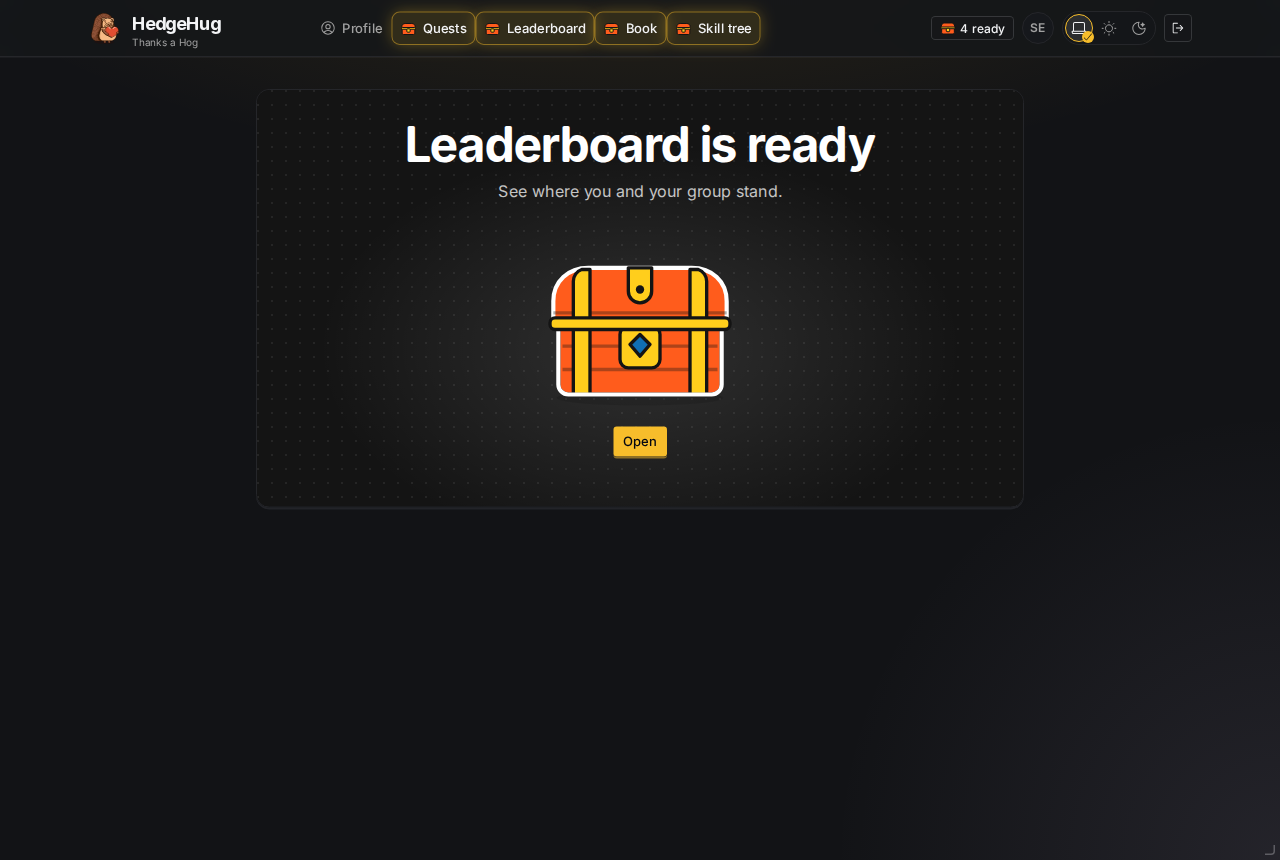
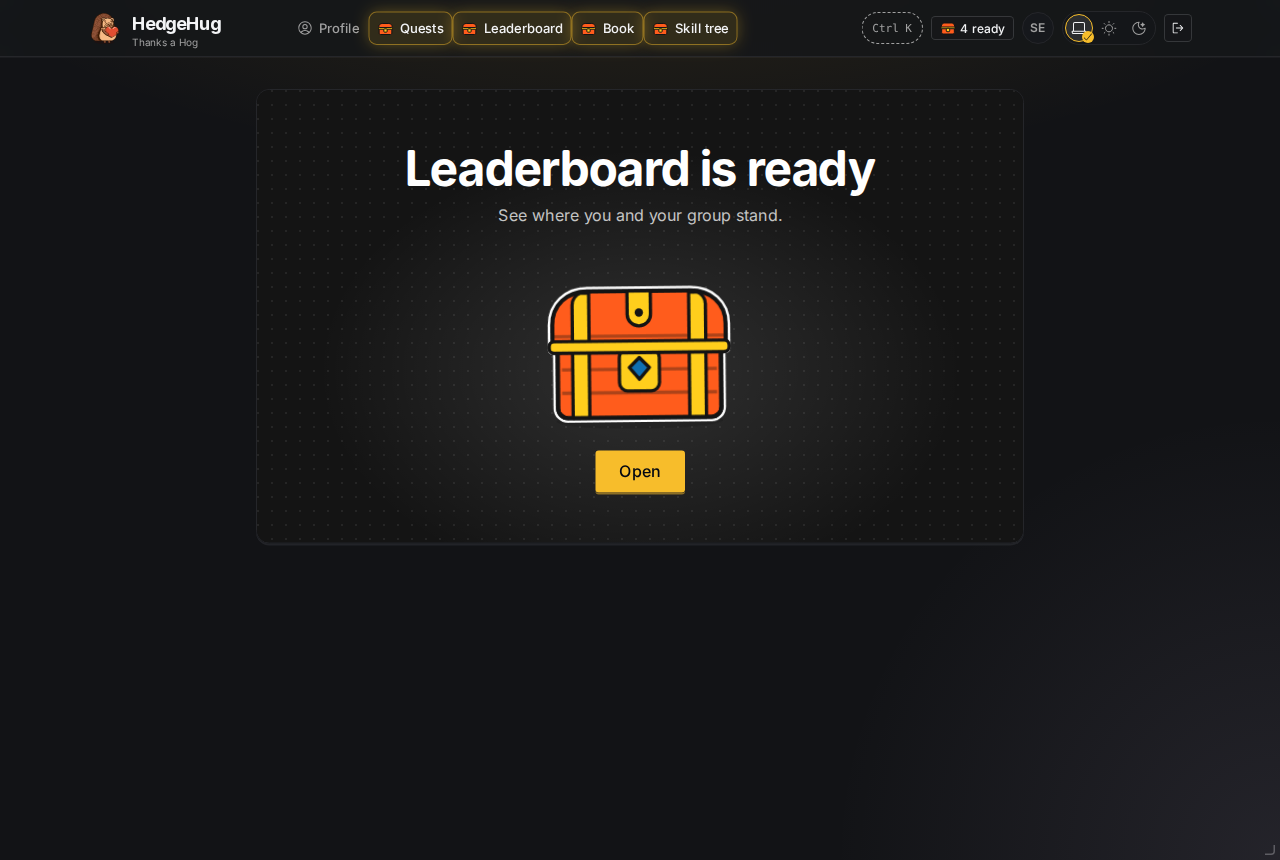
Refresh #276's proof after the spot check's fixes

Changed region(s): [[0.3125, 0.1512, 0.6875, 0.2721], [0.4062, 0.3023, 0.5938, 0.5744], [0.25, 0.0, 0.5938, 0.0605]]

diff --git a/website/proof/feature-gates/fixture/proof-fixture.tsx b/website/proof/feature-gates/fixture/proof-fixture.tsx
@@ -8,6 +8,7 @@ import { fixedQuests, questsFixtures } from "./src/questsFixtures";
 import { bookFixtures, fixedBook } from "./src/bookFixtures";
 import { fixedSkillTree, skillTreeFixtures } from "./src/skillTreeFixtures";
 import { fixtureProfileCardFor } from "./src/profileCardFixtures";
+import { fixtureRecentKudos } from "./src/recentKudosFixtures";
 
 const params = new URLSearchParams(location.search);
 history.replaceState(null, "", (params.get("path") ?? "/") + location.search);
@@ -29,5 +30,5 @@ const actions: ShellActions = {
   },
 };
 const show = () =>
-  root.render(<App visitor={visitor} actions={actions} useLeaderboard={board} useQuests={fixedQuests(questsFixtures[state])} useBook={fixedBook(bookFixtures[state])} useSkillTree={fixedSkillTree(skillTreeFixtures[state])} useProfileCard={fixtureProfileCardFor(visitor)} />);
+  root.render(<App visitor={visitor} actions={actions} useLeaderboard={board} useQuests={fixedQuests(questsFixtures[state])} useBook={fixedBook(bookFixtures[state])} useSkillTree={fixedSkillTree(skillTreeFixtures[state])} useProfileCard={fixtureProfileCardFor(visitor)} useRecentKudos={fixtureRecentKudos} />);
 show();

diff --git a/website/proof/feature-gates/README.md b/website/proof/feature-gates/README.md
@@ -14,8 +14,15 @@ The fixture build in `fixture/` (copy its three files into `website/`, run `pnpm
 | Shot | State |
 | --- | --- |
 | `1-locked-skill-tree-light.png`, `2-locked-skill-tree-dark.png` | `?state=locked&path=/skills`: the Skill tree's wizard in silhouette with the padlock, `Unlocks at level 5`, its sentence, `Back to your profile`. No climb, no levels to go (D3). |
-| `3-ready-leaderboard-light.png`, `4-ready-leaderboard-dark.png` | `?state=ready&path=/leaderboard`: the night band in both modes, `Leaderboard is ready`, the sentence, the crate with its light edge and the primary `Open`. |
-| `8-ready-book-390-dark.png` | The Book's ready band at 390 px. |
+| `3-ready-leaderboard-light.png`, `4-ready-leaderboard-dark.png` | `?state=ready&path=/leaderboard`: the night band in both modes, `Leaderboard is ready`, the sentence, the crate with E's ink outline inside a light rim, and the 44 px primary `Open` (the crate itself opens it too, from Fable 5.1's spot check). |
+| `8-ready-book-390-dark.png`, `9-locked-quests-390-light.png` | The Book's ready band and the locked Quests page at 390 px. |
 | `5-reveal-book-next-light.png`, `6-reveal-book-next-dark.png` | The Book's reveal end state from the home with all four crates ready: the checklist, `Go to Book` focused, `Open the next one · 3 more ready`. |
 | `7-reveal-next-quests-dark.png` | After `Open the next one`: the button read `Opening…` with `aria-disabled` and kept focus, then the Quests reveal played and its end state focused `Go to Quests`, with `2 more ready`. |
 | `e-locked-light.png`, `e-locked-dark.png` | Variant E's locked Skill tree, from the #259 audit, for comparison. E's blurred ghost, climb and levels to go are cut by D3. |
+
+## V24 manual pass
+
+- **Focus order:** on the locked page, `Back to your profile` is the only stop after the nav. On the ready page, `Open` (the crate is a mouse target only, so the keyboard meets one control). In the reveal's end state: `Go to {name}`, `Done`, `Replay`, `Open the next one`; Tab and Shift+Tab stay inside the dialog, also while `Opening…` is pending (a test covers it).
+- **Focus visibility:** Quill's focus ring on `Open` shows on the night band in both modes; the reveal's first action takes focus once the end state shows.
+- **Reduced motion:** the checklist's lines rise one after another only with full motion (`.moment-line` under `prefers-reduced-motion: no-preference` and `data-motion="full"`); with reduced motion the end state shows at once (a test opens the next crate under reduced motion).
+- **Screen-reader wording:** the locked page's h1 reads `{name} Unlocks at level {level}`; the ready page's `{name} is ready`; the next-crate button `Open the next one, {n} more ready`, then `Opening…` with `aria-disabled`; the checklist is a list named `What waits`.
